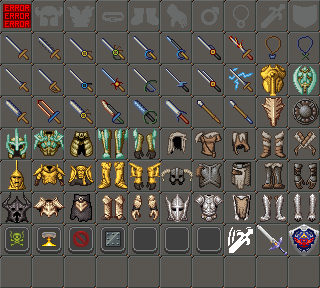
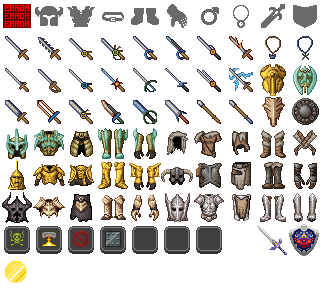
Buy & Sell interface

diff --git a/src/view.py b/src/view.py
@@ -83,7 +83,7 @@ class View:
         self.inventory_cursor = load_tile_table("res/inventory/inventory_cursor.png", 1, 1)
         self.active_tab = load_tile_table("res/inventory/active_tab.png", 1, 1)
         self.active_equipment = load_tile_table("res/inventory/active_equipment.png", 1, 1)
-        self.items_tiles = load_tile_table("res/inventory/items.png", 10, 8)
+        self.items_tiles = load_tile_table("res/inventory/items.png", 10, 9)
 
         # Assets Monsters
         self.monsters.append(pygame.image.load("res/enemies/druid.png").convert_alpha())
@@ -113,7 +113,7 @@ class View:
         if size in self.fonts_stock:
             font = self.fonts_stock[size]
         else:
-            font = pygame.font.Font(self.font_name, size)
+            font = pygame.font.Font(self.font_name, int(size))
             self.fonts_stock[size] = font
 
         text_surface = font.render(text, 0, (255, 255, 255))
@@ -198,7 +198,7 @@ class View:
         elif isinstance(char, Merchant):
             sprite = self.merchants
         else:
-            return # Inconnu, on quitte sans afficher
+            return  # Inconnu, on quitte sans afficher
 
         self.window.blit(pygame.transform.scale(sprite[char.icon_id], (size_width, size_height)), (0, 0))
 
@@ -450,20 +450,21 @@ class View:
             self.print_case(cursor, 0, "<^>")
             self.print_case(cursor, 1, "Inventaire")
             self.print_case(cursor, 2, "Sauvegarder")
-        if situation == 1:  # Exploration Fin Donjon
+        elif situation == 1:  # Exploration Fin Donjon
             self.print_case(cursor, 0, "<^>")
             self.print_case(cursor, 1, "Inventaire")
             self.print_case(cursor, 2, "Sauvegarder")
             self.print_case(cursor, 3, "Descendre")
-        if situation == 2:  # Exploration Marchand
+        elif situation == 2:  # Exploration Marchand
             self.print_case(cursor, 0, "<^>")
             self.print_case(cursor, 1, "Inventaire")
             self.print_case(cursor, 2, "Sauvegarder")
-            self.print_case(cursor, 3, "Marchand")
-        if situation == 3:  # Inventaire Action Objet
+            self.print_case(cursor, 3, "Acheter")
+            self.print_case(cursor, 4, "Vendre")
+        elif situation == 3:  # Inventaire Action Objet
             self.print_case(cursor, 0, "Equiper")
             self.print_case(cursor, 1, "Jeter")
-        if situation == 4:  # Inventaire Action Consommables
+        elif situation == 4:  # Inventaire Action Consommables
             self.print_case(cursor, 0, "Equiper")
             self.print_case(cursor, 1, "Jeter")
             self.print_case(cursor, 1, "Utiliser")
@@ -499,6 +500,31 @@ class View:
         if is_percent:
             self.window.blit(pygame.transform.scale(self.numbers_tiles[10], (int(width), int(height))),
                              (int(posx - width), int(posy)))
+
+    def print_gold(self, price, x, y, limited=False):
+        """
+        @summary Affiche un prix
+        @param price : Prix a afficher
+        @param x : position x
+        @param y : position y
+        @param limited : Doit-on raccourcir le prix ? (auquel cas il est centre)
+        """
+        tempx, tempy = self.items_tiles[items_id["gold"]].get_size()
+        size_width, size_height = self.wheight * 0.07 * tempx / tempy, self.wheight * 0.07
+
+        self.window.blit(pygame.transform.scale(self.items_tiles[items_id["gold"]], (int(size_width), int(size_height))),
+                         (int(x - size_width if not limited else x - size_width / 2),
+                         int(y if not limited else y - size_height)))
+
+        price = int(price)
+        unit = [".", "K", "M", "G", "T", "P", "E", "Z", "Y", "*"]
+        index_unit = 0
+        while price > price % 1000:
+            price = price // 1000
+            if index_unit < len(unit) - 1:
+                index_unit += 1
+
+        self.print_text(str(price) + unit[index_unit], size_height*0.75, int(x), int(y), self.wwidth, limited)
 
     def print_fillers(self, char, armoring=False, monster=False):
         """
@@ -539,6 +565,9 @@ class View:
         self.window.blit(pygame.transform.scale(self.fills_main[char.get_orientation() % 4 if not monster else 4],
                                                 (int(size_width_main), int(size_height_main))),
                          (startx, int(starty + coef * self.wheight * 0.01)))
+        if not monster:
+            self.print_gold(656545, startx + size_width_main * 0.375,
+                            starty + coef * self.wheight * 0.01 + size_height_main * 0.4, True)
 
         # Fills Tubes
         size_width_tubes = coef * (self.wwidth * 0.55 - self.wwidth * 0.055) - size_width_main
@@ -549,7 +578,7 @@ class View:
                 pygame.transform.scale(self.fills_tubes[0], (int(size_width_tubes), int(size_height_tubes))), (
                     int(startx + size_width_main),
                     int(starty + coef * (
-                                self.wheight * 0.01 + (5 * size_height_main / 16) * i) + size_height_main / 16)))
+                            self.wheight * 0.01 + (5 * size_height_main / 16) * i) + size_height_main / 16)))
 
         # Fills Filler
         size_height_filler = size_height_tubes * 14 / 16

diff --git a/src/game.py b/src/game.py
@@ -100,10 +100,15 @@ class Game:
 
             px, py = self.character.get_pos()
             current_room = self.map.get_room(px, py)
-            current_item = self.character.inventory.items[inventory_cursor[0] + inventory_cursor[1] * 8]
+            if game_area != 6 or current_room.merchant is None:  # Si nous ne sommes pas en mode Acheter
+                current_item = self.character.inventory.items[inventory_cursor[0] + inventory_cursor[1] * 8]
+            else:
+                current_item = current_room.merchant.inventory.items[inventory_cursor[0] + inventory_cursor[1] * 8]
 
-            if game_area == 0 and (current_room.is_exit() or current_room.merchant is not None):
+            if game_area == 0 and current_room.is_exit():
                 max_hud_cursor = 3
+            elif game_area == 0 and current_room.merchant is not None:
+                max_hud_cursor = 4
             elif game_area == 3 and isinstance(current_item, Equipment):
                 max_hud_cursor = 1
             elif game_area == 3 and isinstance(current_item, Consumables):
@@ -139,8 +144,12 @@ class Game:
                                 self.dungeon_restart(False)  # Sans RESET
                             elif hud_cursor == 3 and current_room.merchant is not None:
                                 # LES SOLDES
-                                # TODO
-                                i =1
+                                game_area = 6
+                                inventory_cursor = [0, 0]
+                            elif hud_cursor == 4 and current_room.merchant is not None:
+                                # LES SOLDES #2
+                                game_area = 7
+                                inventory_cursor = [0, 0]
 
                         elif event.key == K_UP:  # Fleche du haut
                             if hud_cursor > 0:
@@ -160,17 +169,29 @@ class Game:
                             self.character.set_orientation((self.character.get_orientation() - 1) % 4)
                             self.map_surf = self.map.disp_map(player=self.character)
 
-                    elif game_area == 1:  # Si on est en mode Inventaire
+                    elif game_area == 1 or game_area == 6 or game_area == 7:  # Si on est en mode Inventaire, ou Achat ou Vente
                         if event.key == K_RETURN:
                             # Action avec l'objet du curseur, on passe en action inventaire
-                            if current_item is not None:  # Si pas d'objet, on reste en mode inventaire
+                            if game_area == 1 and current_item is not None:  # Si pas d'objet, on reste en mode inventaire
                                 game_area = 3
                                 hud_cursor = 0
+                            # On achete l'objet vise
+                            if game_area == 6 and current_item is not None and current_room.merchant is not None:
+                                self.character.buy(current_item, current_room.merchant)
+                            # On vend l'objet vise
+                            if game_area == 7 and current_item is not None and current_room.merchant is not None:
+                                self.character.sell(current_item, current_room.merchant)
 
                         elif event.key == K_ESCAPE:
                             # On quitte l'inventaire
+                            inventory_cursor = [0, 0]
+                            if game_area == 6:
+                                hud_cursor = 3
+                            elif game_area == 7:
+                                hud_cursor = 4
+                            else:
+                                hud_cursor = 1
                             game_area = 0
-                            hud_cursor = 1
 
                         elif event.key == K_UP:  # Fleche du haut
                             if inventory_cursor[1] > 0:
@@ -280,6 +301,7 @@ class Game:
                             if active_cursor[0] > 0:
                                 active_cursor[0] -= 1
 
+
             # Calculating New sprites and Printing
             px, py = self.character.get_pos()
             current_room = self.map.get_room(px, py)
@@ -305,9 +327,12 @@ class Game:
                 # HUD Fillers
                 self.view.print_fillers(self.character)
 
-            elif game_area == 1:
+            elif game_area == 1 or game_area == 6 or game_area == 7:
                 # Inventory
-                self.view.print_inventory(self.character, inventory_cursor)
+                if game_area == 1 or game_area == 7:
+                    self.view.print_inventory(self.character, inventory_cursor)
+                elif game_area == 6:
+                    self.view.print_inventory(current_room.merchant, inventory_cursor)
                 # HUD Right Cases
                 if isinstance(current_item, Equipment) or isinstance(current_item, SpellBook):
                     self.view.print_cases_hud(-1, 3)  # Si Equipement ou Sort

diff --git a/res/ressources_id.py b/res/ressources_id.py
@@ -10,6 +10,7 @@ items_id = {
     "no_weapon": 8,
     "no_shield": 9,
     "attack_logo": 77,
+    "gold": 80,
 
     "amulets": [18, 19],
 
